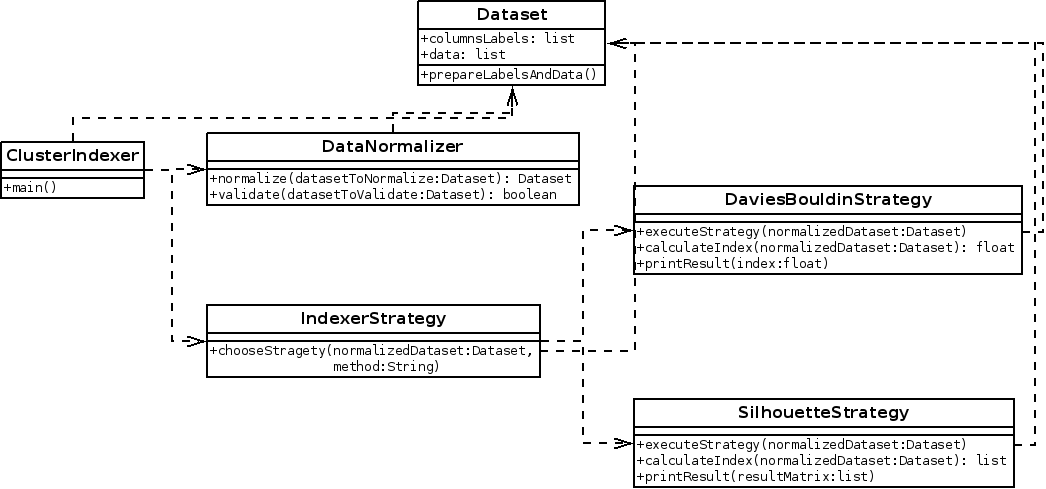
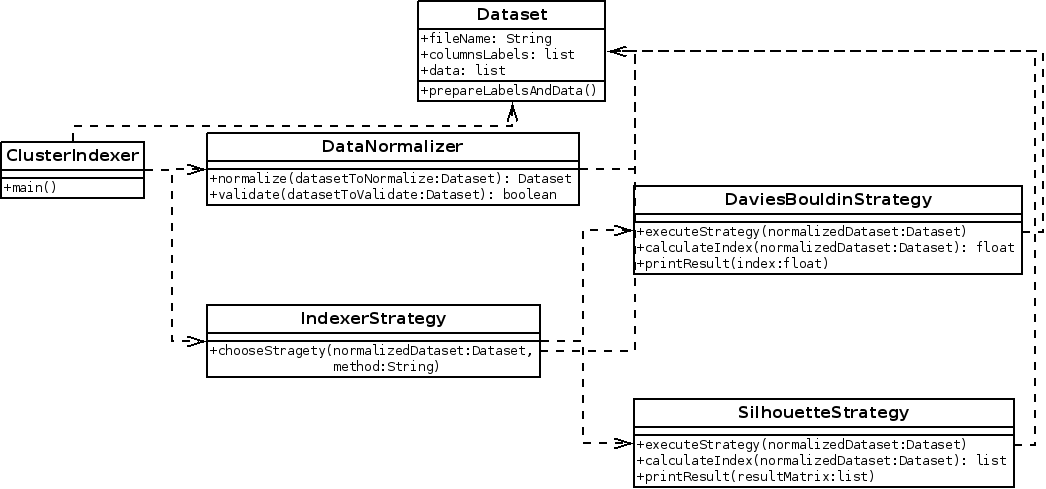
Silhouette and Davies-Bouldin added

Changed region(s): [[0.3671, 0.0613, 0.5813, 0.2454], [0.5813, 0.0613, 0.6119, 0.1227]]

diff --git a/src/Tools/SilhouetteStrategy.py b/src/Tools/SilhouetteStrategy.py
@@ -1,134 +1,60 @@
-import pandas
 import math
 
 class SilhouetteStrategy:
     def executeStrategy(self, normalizedDataSet):
-        self.printResult(self.calculateIndex(normalizedDataSet))
+        self.printResult(self.calculateIndex(normalizedDataSet), normalizedDataSet)
 
     def calculateIndex(self, normalizedDataSet):
-        pandas.options.mode.chained_assignment = None
-        csvData = pandas.DataFrame(data=normalizedDataSet.toDict())
+        clusters = normalizedDataSet.toClusteredDict()
+        sis = {}
+        for cluster in clusters.keys():
+            sis[cluster] = []
+            for instance in clusters[cluster]:
+                sis[cluster].append(self.s(instance, cluster, clusters))
 
-        #Adicionando colunas de cálculo
-        csvData["ai"] = 0
-        csvData["bi"] = 0
-        csvData["si"] = 0
+        scs = []
+        for cluster in sis.keys():
+            scs.append(sum(sis[cluster])/len(sis[cluster]))
 
-        # #Ordenando pelo agrupamento
-        # csvData = csvData.sort_values("Cluster")
+        return sum(scs)/len(scs)
 
-        #Separando os agrupamentos
-        total_clusters = csvData["Cluster"].unique()
-        clusters = {}
+    def printResult(self, index, normalizedDataSet):
+        print("O índice Silhouette para o Conjunto de Dados " +
+        normalizedDataSet.filename + " foi: " + str(index))
 
-        for c in total_clusters:
-            clusters[c] = (csvData.loc[csvData["Cluster"] == c])
-            #clusters[c].drop(["Cluster"], axis=1, inplace=True)
+    def b(self, i, icluster, clusteredDataset):
+        listaDeMedias = []
+        for cluster in clusteredDataset.keys():
+            media = 0.0
+            cont = 0.0
+            if cluster != icluster:
+                for instance in clusteredDataset[cluster]:
+                    eucl = 0.0
+                    for x in range(len(i)):
+                        eucl += math.pow(float(i[x]) - float(instance[x]), 2)
+                    eucl = math.sqrt(eucl)
+                    media += eucl
+                    cont += 1
+                listaDeMedias.append(media/cont)
+        return min(listaDeMedias)
 
-        #Cálculo para o ai
-        #Itera entre os clusters
-        for key, cluster in clusters.items():
-            #Fixa uma linha por vez
-            for fixed_index, fixed_row in cluster.iterrows():
-                ai_total = []
+    def a(self, i, icluster, clusteredDataset):
+        if len(clusteredDataset[icluster]) == 1:
+            return 1
+        else:
+            media = 0.0
+            cont = 0.0
+            for instance in clusteredDataset[icluster]:
+                if instance is not i:
+                    eucl = 0.0
+                    for x in range(len(i)):
+                        eucl += math.pow(float(i[x]) - float(instance[x]), 2)
+                    eucl = math.sqrt(eucl)
+                    media += eucl
+                    cont += 1
+            return media/cont
 
-                #Itera nas demais linhas do mesmo cluster
-                for index, row in cluster.iterrows():
-                    ai = 0
-
-                    #Se a linha for a mesma da linha fixa desconsidera
-                    if index == fixed_index:
-                        continue
-
-                    columns = len(row)
-
-                    #Itera entre as colunas
-                    for i in range(0, columns - 4):
-                        isnumeric = str(row[i]).replace('.', '').isnumeric()
-
-                        data = 0
-
-                        if isnumeric:
-                            data = math.pow((float(fixed_row[i]) - float(row[i])), 2)
-                            ai = ai + data
-                        else:
-                            if fixed_row[i] == row[i]:
-                                data = 0
-                            else:
-                                data = 1
-
-                            ai = ai + data
-
-                    ai = math.sqrt(ai)
-                    ai_total.append(ai)
-
-                #Seta o ai da linha fixa com a média dos ai do cluster
-                if len(ai_total) > 0:
-                    cluster.loc[cluster.index == fixed_index, "ai"] = sum(ai_total) / len(ai_total)
-
-        #Cálculo do bi
-        #Itera entre os clusters
-        for fixed_cluster_key, fixed_cluster in clusters.items():
-            #Fixando uma linha do cluster por vez
-            for fixed_index, fixed_row in fixed_cluster.iterrows():
-                bi_medias = []
-                #Iterando entre os outros clusters
-                for cluster_key, cluster in clusters.items():
-                    bi_total = []
-                    #Ignora o cluster fixo
-                    if cluster_key == fixed_cluster_key:
-                        continue
-
-                    #Iterando entre os itens do cluster
-                    for index, row in cluster.iterrows():
-                        bi = 0
-                        columns = len(row)
-
-                        # Itera entre as colunas
-                        for i in range(0, columns - 4):
-                            isnumeric = str(row[i]).replace('.', '').isnumeric()
-
-                            if isnumeric:
-                                data = ((float(fixed_row[i]) - float(row[i])) ** 2)
-                                bi = bi + data
-                            else:
-                                if fixed_row[i] == row[i]:
-                                    data = 0
-                                else:
-                                    data = 1
-                                bi = bi + data
-
-                        bi = (bi ** 0.5)
-                        bi_total.append(bi)
-
-                    # Seta o ai da linha fixa com a média dos ai do cluster
-                    if len(bi_total) > 0:
-                        bi_medias.append(sum(bi_total) / len(bi_total))
-
-                if len(bi_medias) > 0:
-                    fixed_cluster.loc[fixed_cluster.index == fixed_index, "bi"] = min(bi_medias)
-
-        #Cálculo do si
-        for key, cluster in clusters.items():
-            for index, row in cluster.iterrows():
-                data = (row["bi"] - row["ai"]) / max(row["bi"], row["ai"])
-                cluster.loc[cluster.index == index, "si"] = data
-
-        #Cálculo dos sCluster
-        s_clusters = {}
-        for key, cluster in clusters.items():
-            si_total = cluster["si"].tolist()
-            if len(si_total) > 0:
-                si_media = sum(si_total) / len(si_total)
-                s_clusters[key] = si_media
-            else:
-                s_clusters[key] = 0
-
-        #Cálculo do Silhuette Total
-        return sum(s_clusters.values()) / len(s_clusters.values())
-
-
-
-
-    def printResult(self, index):
-        print("O índice silhouette foi: " + str(index))
+    def s(self, i, icluster, clusteredDataset):
+        bi = self.b(i, icluster, clusteredDataset)
+        ai = self.a(i, icluster, clusteredDataset)
+        return (bi - ai)/max([bi, ai])

diff --git a/src/Tools/DaviesBouldinStrategy.py b/src/Tools/DaviesBouldinStrategy.py
@@ -1,9 +1,86 @@
+import math
+
 class DaviesBouldinStrategy:
     def executeStrategy(self, normalizedDataSet):
-        self.calculateIndex(normalizedDataSet)
+        self.printResult(self.calculateIndex(normalizedDataSet), normalizedDataSet)
 
     def calculateIndex(self, normalizedDataSet):
-        None
+        clusters = normalizedDataSet.toClusteredDict()
+        centroids = self.getCentroids(clusters)
+        es = self.es(clusters, centroids)
+        dist = self.distEntreCentroids(centroids)
+        rs = self.rs(es, dist)
+        mrs = self.mrs(rs)
+        return self.db_index(mrs)
 
-    def printResult(self, index):
-        None
+    def printResult(self, index, normalizedDataSet):
+        print("O índice Davies-Bouldin para o Conjunto de Dados " +
+        normalizedDataSet.filename + " foi: " + str(index))
+
+    def getCentroids(self, pclusters):
+        clusters = pclusters
+        centroids = {}
+        for cluster in clusters.keys():
+            centroids[cluster] = []
+            for i in range(len(clusters[cluster][0]) - 1):
+                mediaCol = 0
+                for instance in clusters[cluster]:
+                    mediaCol += float(instance[i])
+                centroids[cluster].append(mediaCol/len(clusters[cluster]))
+        return centroids
+
+    def es(self, pclusters, centroids):
+        clusters = pclusters
+        es = {}
+
+        for cluster in clusters.keys():
+            listaMedias = []
+            for instance in clusters[cluster]:
+                mediaAtual = 0
+                for i in range(len(clusters[cluster][0]) - 1):
+                    mediaAtual += math.fabs(float(centroids[cluster][i]) - float(instance[i]))
+                mediaAutal = math.pow(mediaAtual,2)
+                listaMedias.append(mediaAtual)
+            es[cluster] = sum(listaMedias)/len(listaMedias)
+
+        return es
+
+    def distEntreCentroids(self, centroids):
+        dist = {}
+        ckeys = list(centroids.keys())
+
+        for i in range(len(centroids) - 1):
+            for j in range(len(centroids)):
+                j = i + 1
+                label = "[" + str(i + 1) + ", " + str(j + 1) + "]"
+                soma = 0
+                for x in range(len(centroids[ckeys[i]])):
+                    soma += math.fabs(centroids[ckeys[i]][x] - centroids[ckeys[j]][x])
+                dist[label] = soma
+
+        return dist
+
+    def rs(self, es, distEntCen):
+        rss = {}
+        esvalues = list(es.values())
+
+        for i in range(len(es) - 1):
+            for j in range(len(es)):
+                j = i + 1
+                label = "[" + str(i + 1) + ", " + str(j + 1) + "]"
+                rss[label] = (float(esvalues[i]) + float(esvalues[j])) / float(distEntCen[label])
+
+        return rss
+
+    def mrs(self, rs):
+        mrs = []
+        rsvalues = list(rs.values())
+
+        for i in range(len(rs) - 1):
+            for j in range(len(rs)):
+                mrs.append(max(rsvalues[i], rsvalues[j]))
+
+        return mrs
+
+    def db_index(self, mrs):
+        return sum(mrs)/len(mrs)

diff --git a/src/ClusterIndexer.py b/src/ClusterIndexer.py
@@ -6,7 +6,7 @@ from Tools.IndexerStrategy import IndexerStrategy
 #método principal
 def main():
     method = ''
-    file = ''
+    files = []
 
     #verificar se o método e o arquivo csv foram passados via linha de comando
     if '--method' in sys.argv:
@@ -15,22 +15,26 @@ def main():
         raise Exception("No method specified! Please use 'db' or 'silhouette'")
 
     if '--database' in sys.argv:
-        file = sys.argv[sys.argv.index('--database') + 1]
+        files.append(sys.argv[sys.argv.index('--database') + 1])
     else:
         raise Exception("No database specified! Please use some file.csv")
 
-    #carregar conjunto de dados CSV
-    dataset = Dataset(file)
+    while '--compare-to' in sys.argv:
+        files.append(sys.argv.pop(sys.argv.index('--compare-to') + 1))
+        sys.argv.pop(sys.argv.index('--compare-to'))
 
-    #verificar se conjunto de dados é válido
-    normalizer = DataNormalizer()
-    try:
-        if normalizer.validate(dataset):
+    for file in files:
+        #carregar conjunto de dados CSV
+        dataset = Dataset(file)
+
+        #verificar se conjunto de dados é válido
+        normalizer = DataNormalizer()
+        try:
+            normalizer.validate(dataset)
             dataset = normalizer.normalize(dataset)
             indexer = IndexerStrategy()
             indexer.chooseStrategy(dataset, method)
-
-    except Exception as e:
-        raise e
+        except Exception as e:
+            raise e
 
 main()

diff --git a/src/Tools/Dataset.py b/src/Tools/Dataset.py
@@ -1,6 +1,9 @@
+import os
+
 class Dataset:
     def __init__(self, csvfile):
         #atributos
+        self.filename = os.path.basename(csvfile)
         self.columnsLabels = []
         self.data = []
 
@@ -39,10 +42,15 @@ class Dataset:
         text += ('\n'.join([','.join([str(cell) for cell in row]) for row in self.data]))
         return text
 
-    def toDict(self):
+    def toClusteredDict(self):
         dict = {}
-        for key in self.columnsLabels:
-            dict[key] = [] if key not in dict else None
-            for line in self.data:
-                dict[key].append(line[self.columnsLabels.index(key)])
+
+        for line in self.data:
+            cluster = line.pop(self.columnsLabels.index('Cluster'))
+            if cluster not in dict.keys():
+                dict[cluster] = []
+                dict[cluster].append(line)
+            else:
+                dict[cluster].append(line)
+
         return dict

diff --git a/src/Tools/IndexerStrategy.py b/src/Tools/IndexerStrategy.py
@@ -8,7 +8,9 @@ class IndexerStrategy:
         dbs = DaviesBouldinStrategy()
         sils = SilhouetteStrategy()
 
-        if method == 'davesbouldin':
+        if method == 'daviesbouldin':
             dbs.executeStrategy(normalizedDataSet)
         elif method == 'silhouette':
             sils.executeStrategy(normalizedDataSet)
+        else:
+            raise Exception("Method not recognized: " + method)
